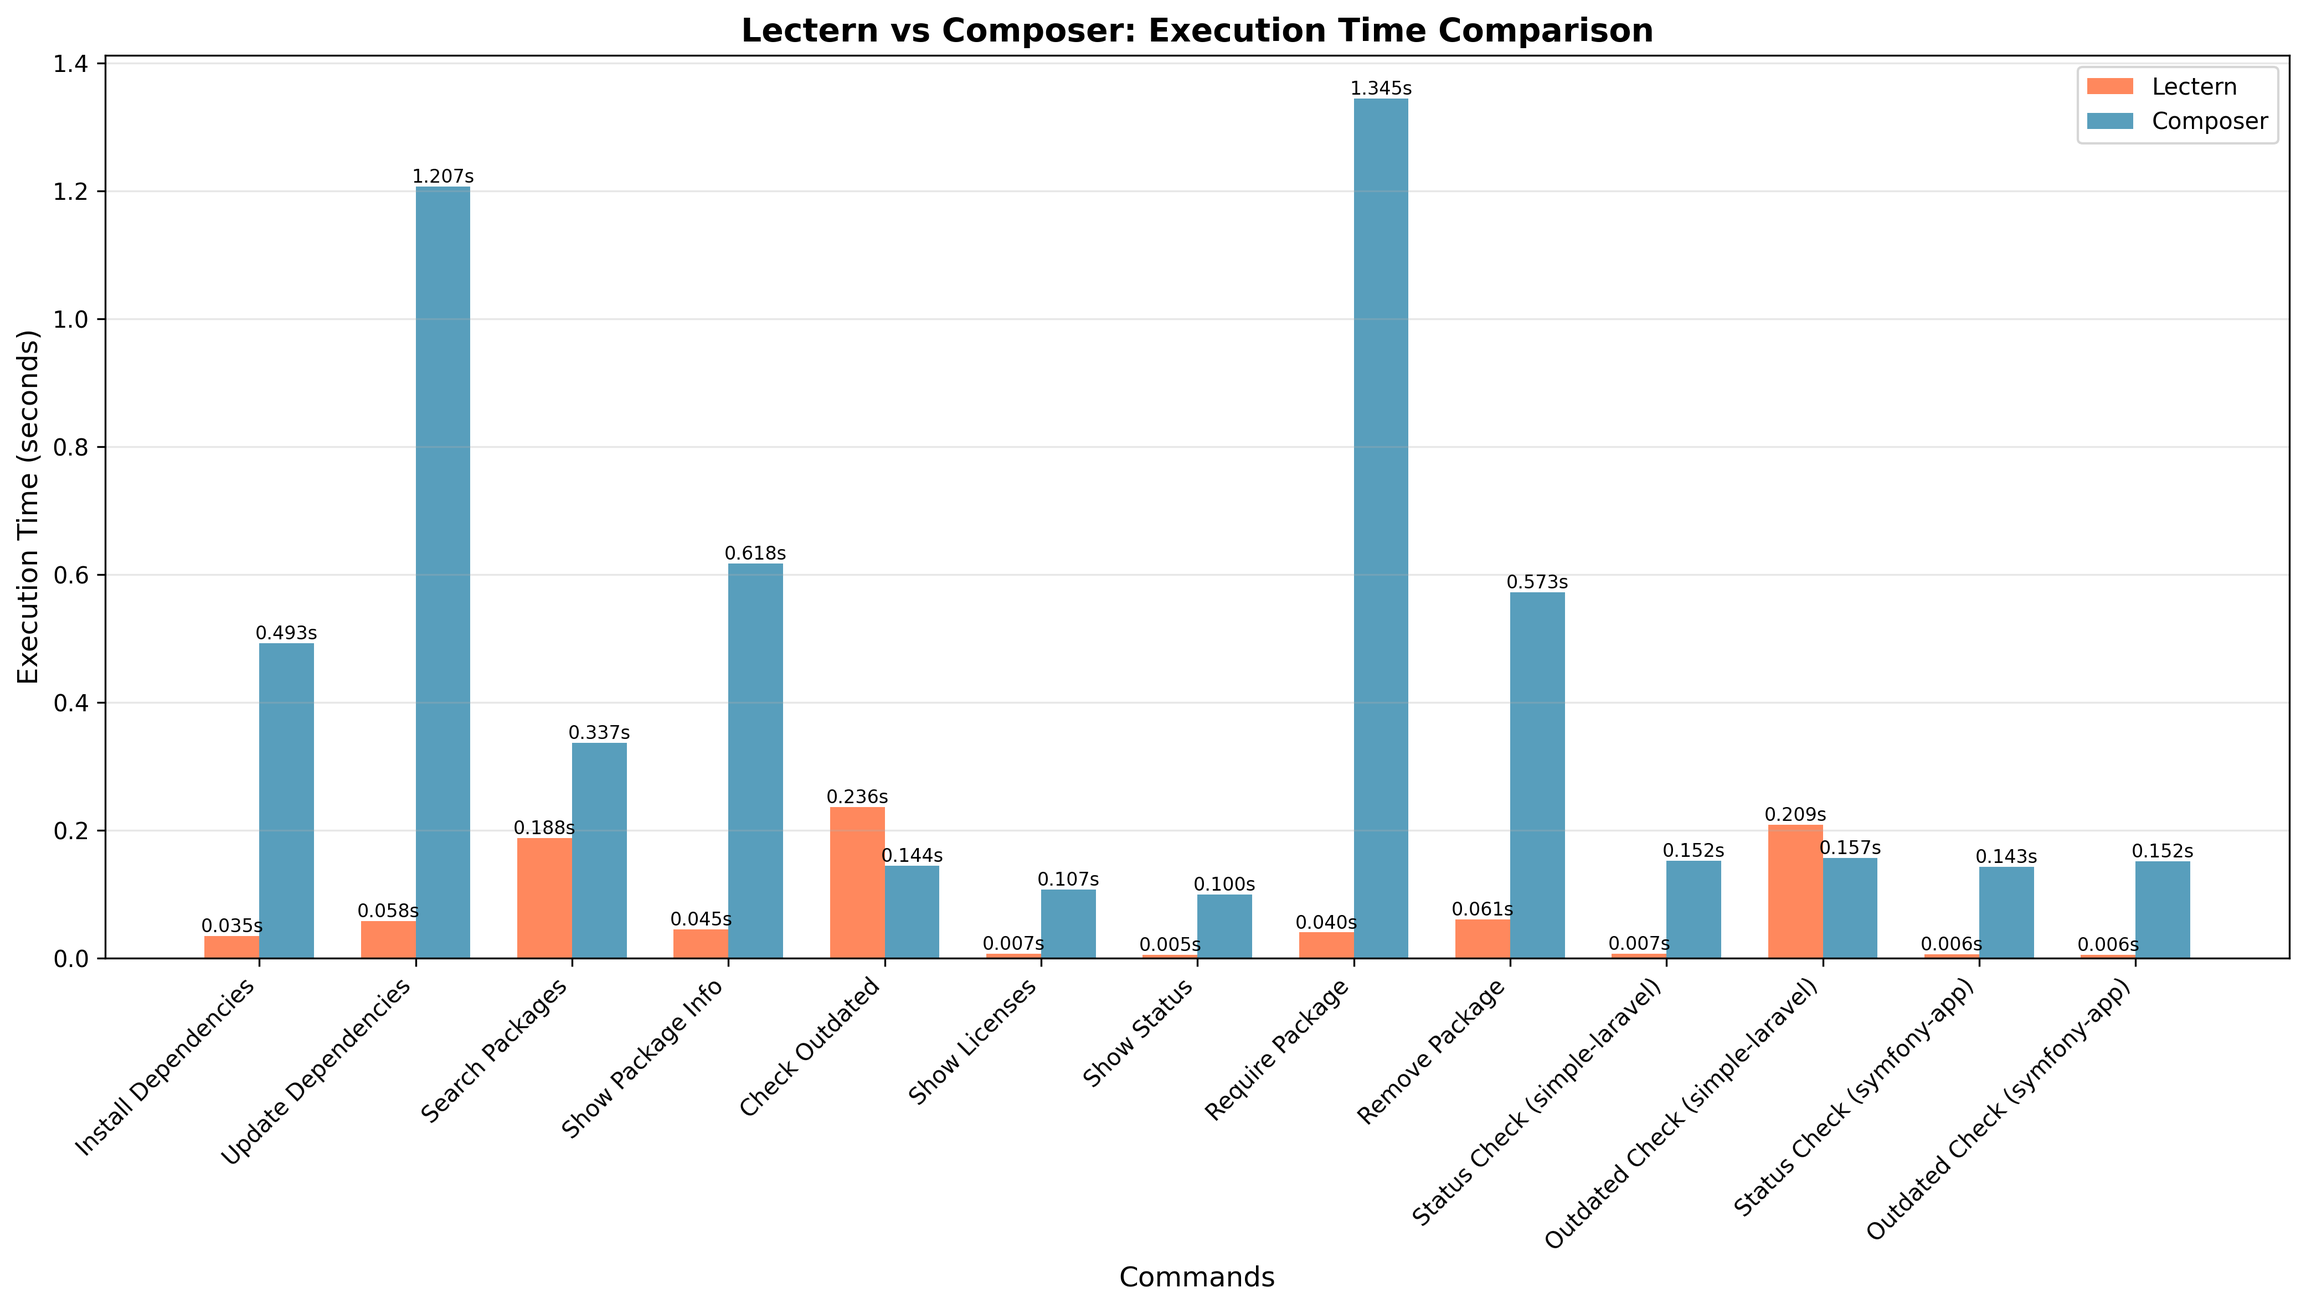
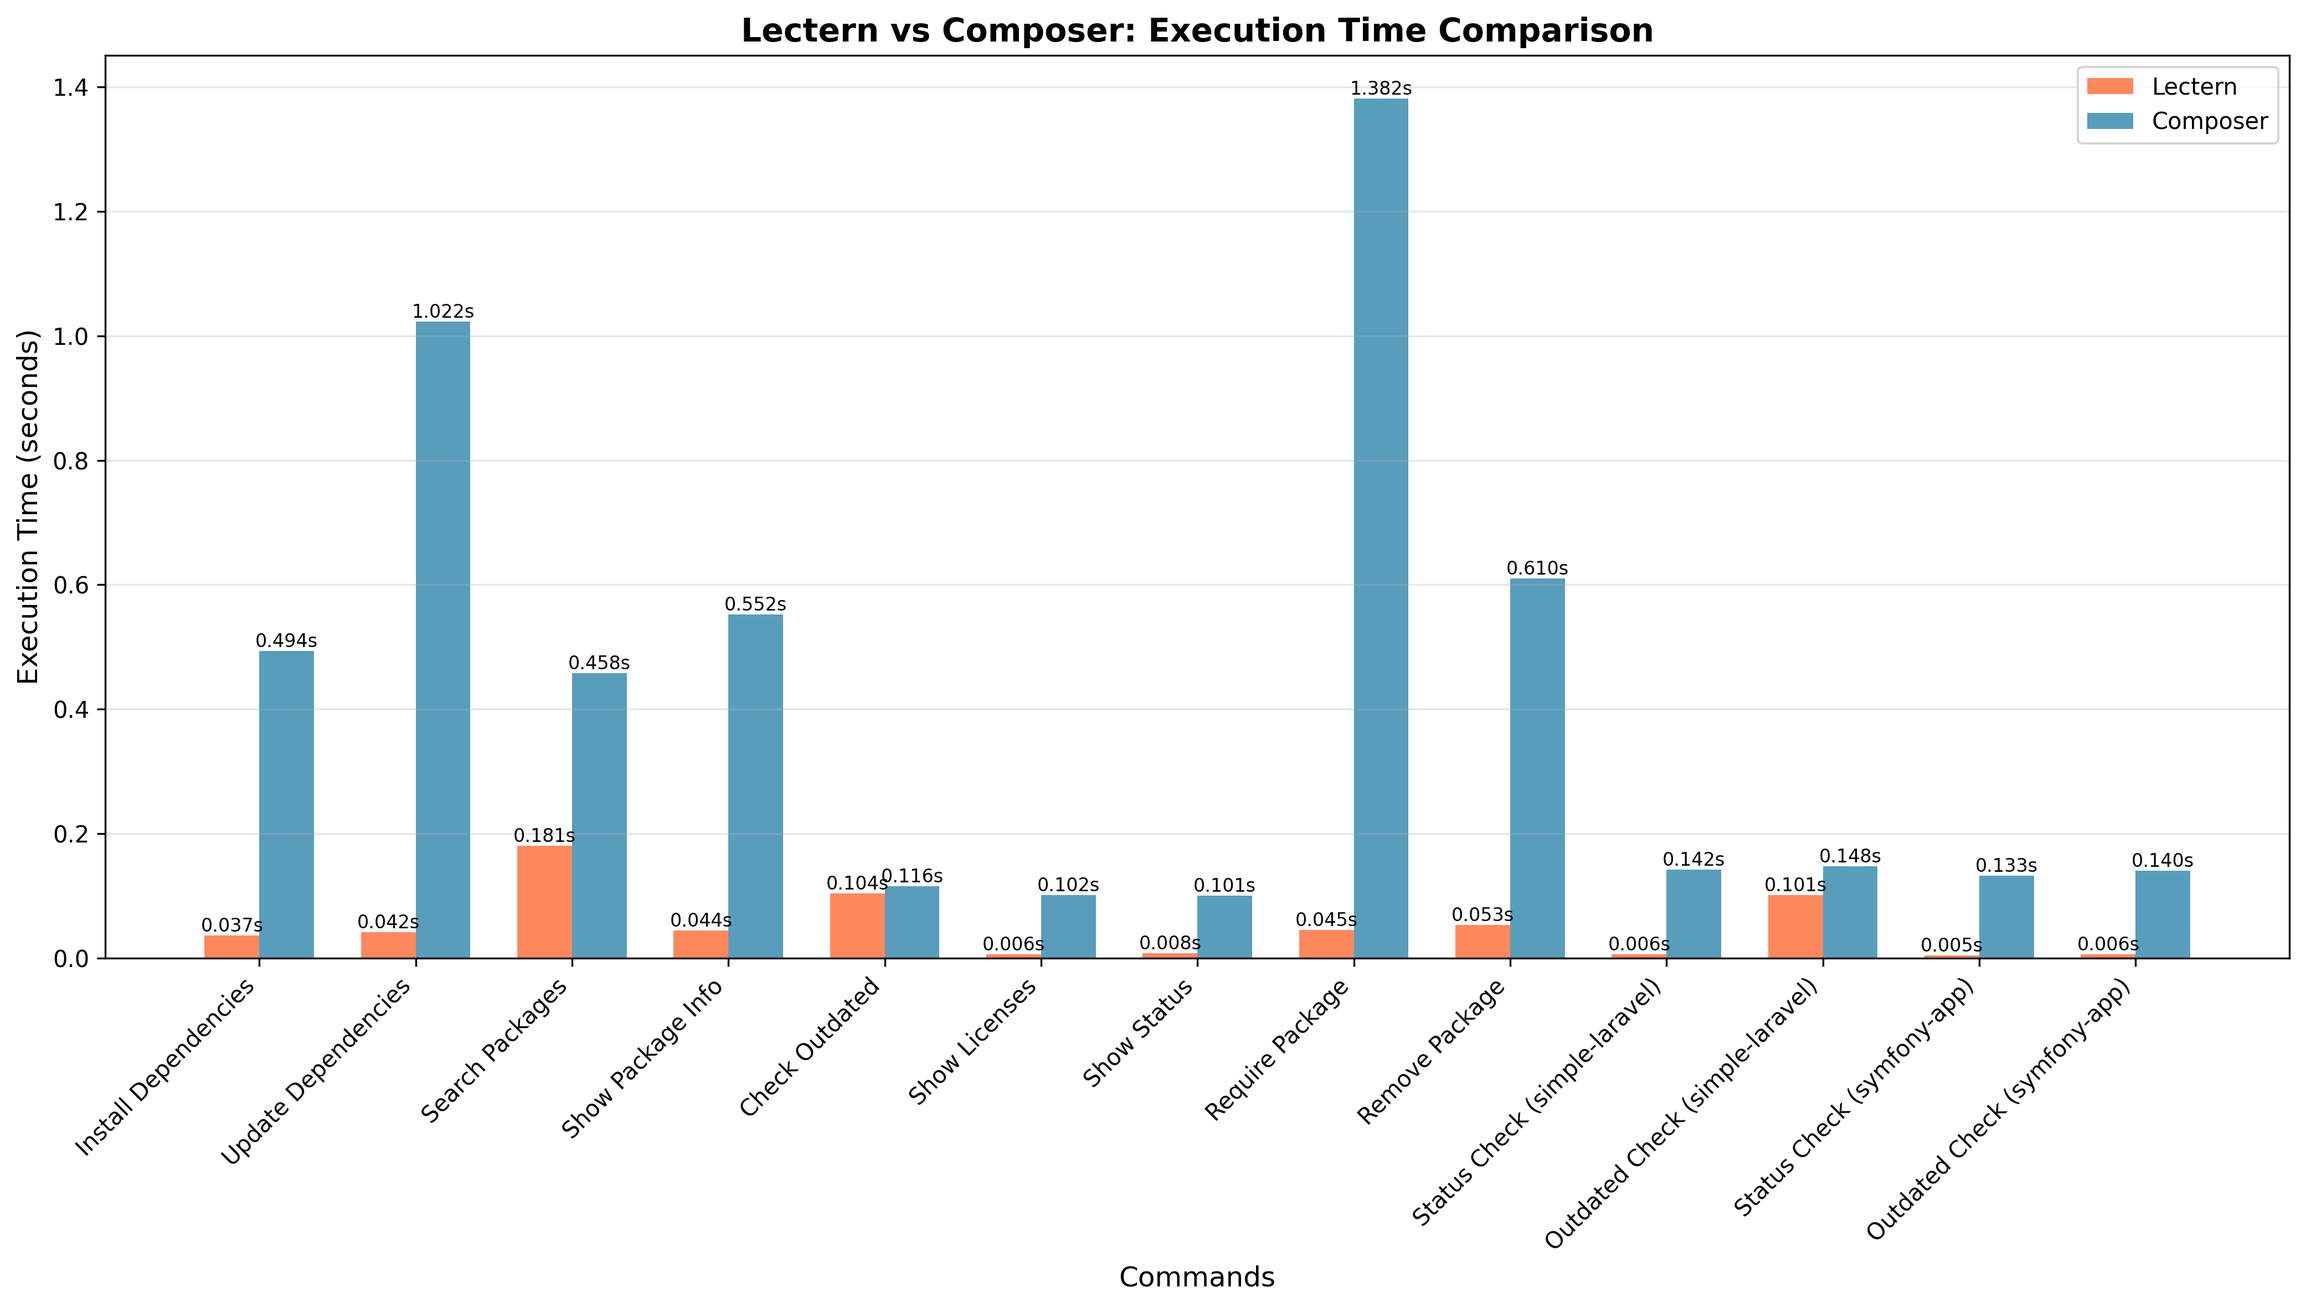
Outdated checks are now faster!

diff --git a/src/core/commands/outdated.rs b/src/core/commands/outdated.rs
@@ -1,13 +1,10 @@
 use crate::io::read_lock;
-use crate::resolver::fetch_package_info;
+use crate::resolver::fetch_packagist_versions_bulk;
 use crate::utils::is_prerelease_version;
 use crate::utils::{print_error, print_info, print_success};
 use anyhow::Result;
-use futures::stream::{self, StreamExt};
 use semver::Version;
-use std::collections::HashMap;
 use std::path::Path;
-use std::sync::{Arc, Mutex};
 
 /// Check for outdated packages with incremental updates
 /// # Errors
@@ -36,33 +33,30 @@ pub async fn check_outdated_packages(working_dir: &Path, quiet: bool) -> Result<
         return Ok(());
     }
 
-    let mut package_names: Vec<String> = lock.packages.iter().map(|p| p.name.clone()).collect();
-    package_names.extend(lock.packages_dev.iter().map(|p| p.name.clone()));
+    // Collect only non-platform packages to check
+    let mut package_names: Vec<String> = Vec::new();
+    for pkg in lock.packages.iter().chain(lock.packages_dev.iter()) {
+        // Skip platform packages (php, ext-*, lib-*, etc.) - they can't be outdated
+        if pkg.name.starts_with("php")
+            || pkg.name.starts_with("ext-")
+            || pkg.name.starts_with("lib-")
+            || pkg.name == "hhvm"
+        {
+            continue;
+        }
+        package_names.push(pkg.name.clone());
+    }
 
-    // Use faster in-memory cache instead of file-based cache
-    // Batch API requests for package info with higher concurrency
-    let package_info_map = Arc::new(Mutex::new(HashMap::new()));
-    let concurrency_limit = 50;
+    if package_names.is_empty() {
+        if !quiet {
+            print_success("✅ All packages are up to date!");
+        }
+        return Ok(());
+    }
 
-    stream::iter(package_names.clone())
-        .map(|package_name| {
-            let package_info_map = Arc::clone(&package_info_map);
-            async move {
-                // fetch_package_info already uses cache internally
-                if let Ok(result) = fetch_package_info(&package_name).await {
-                    let mut map = package_info_map.lock().unwrap();
-                    map.insert(package_name, result);
-                }
-            }
-        })
-        .buffer_unordered(concurrency_limit)
-        .for_each(|_| async {})
-        .await;
-
-    let package_info_map = Arc::try_unwrap(package_info_map)
-        .unwrap()
-        .into_inner()
-        .unwrap();
+    // Use optimized bulk P2 API endpoint for much better performance
+    // This fetches only version metadata, not full package info
+    let versions_map = fetch_packagist_versions_bulk(&package_names).await?;
 
     let mut outdated_count = 0;
     let mut table_rows = Vec::new();
@@ -76,47 +70,68 @@ pub async fn check_outdated_packages(working_dir: &Path, quiet: bool) -> Result<
             .or_else(|| lock.packages_dev.iter().find(|p| p.name == package_name));
 
         if let Some(locked_pkg) = locked_pkg {
-            if let Some(package_info) = package_info_map.get(&package_name) {
-                if let Some(versions) = &package_info.package.versions {
-                    // Find the latest stable version
-                    let mut latest_version = None;
-                    let mut latest_parsed: Option<Version> = None;
+            if let Some(versions) = versions_map.get(&package_name) {
+                // Find the latest stable version with early termination
+                let mut latest_version = None;
+                let mut latest_parsed: Option<Version> = None;
 
-                    // Parse the current version
-                    let current_version_str = locked_pkg.version.trim_start_matches('v');
-                    let current_parsed = Version::parse(current_version_str).ok();
+                // Parse the current version
+                let current_version_str = locked_pkg.version.trim_start_matches('v');
+                let current_parsed = Version::parse(current_version_str).ok();
 
-                    for version_str in versions.keys() {
-                        // Skip dev versions and pre-releases for "latest" comparison
-                        if is_prerelease_version(version_str.as_str()) {
-                            continue;
-                        }
+                // Sort versions in descending order and stop at first stable version
+                let mut version_list: Vec<_> = versions.iter().collect();
+                version_list.sort_by(|a, b| {
+                    let a_clean = a.version.trim_start_matches('v');
+                    let b_clean = b.version.trim_start_matches('v');
+                    
+                    match (Version::parse(a_clean), Version::parse(b_clean)) {
+                        (Ok(va), Ok(vb)) => vb.cmp(&va), // Descending order
+                        _ => std::cmp::Ordering::Equal,
+                    }
+                });
 
-                        // Try to parse the version
-                        let clean_version = version_str.trim_start_matches('v');
-                        if let Ok(parsed_version) = Version::parse(clean_version) {
-                            if latest_parsed.is_none()
-                                || parsed_version > *latest_parsed.as_ref().unwrap()
-                            {
-                                latest_parsed = Some(parsed_version);
-                                latest_version = Some(version_str.clone());
-                            }
-                        }
+                // Find the latest stable version (early termination)
+                for version_data in version_list {
+                    let version_str = &version_data.version;
+                    
+                    // Skip dev versions and pre-releases for "latest" comparison
+                    if is_prerelease_version(version_str.as_str()) {
+                        continue;
                     }
 
-                    // Check if the latest version is newer than current
-                    if let (Some(current), Some(latest_ver), Some(latest_str)) =
-                        (current_parsed, latest_parsed, latest_version)
-                    {
-                        if latest_ver > current {
-                            outdated_count += 1;
-                            table_rows.push((
-                                package_name.clone(),
-                                locked_pkg.version.clone(),
-                                latest_str,
-                                package_info.package.description.clone().unwrap_or_default(),
-                            ));
-                        }
+                    // Try to parse the version
+                    let clean_version = version_str.trim_start_matches('v');
+                    if let Ok(parsed_version) = Version::parse(clean_version) {
+                        // Since we're sorted, this is the latest stable version
+                        latest_parsed = Some(parsed_version);
+                        latest_version = Some(version_str.clone());
+                        break; // Early termination - found latest stable
+                    }
+                }
+
+                // Check if the latest version is newer than current
+                if let (Some(current), Some(latest_ver), Some(latest_str)) =
+                    (current_parsed, latest_parsed, latest_version)
+                {
+                    if latest_ver > current {
+                        outdated_count += 1;
+                        
+                        // Get description from version data if available
+                        let description = versions
+                            .iter()
+                            .find(|v| v.version == latest_str)
+                            .and_then(|v| v.other.get("description"))
+                            .and_then(|d| d.as_str())
+                            .unwrap_or("")
+                            .to_string();
+                        
+                        table_rows.push((
+                            package_name.clone(),
+                            locked_pkg.version.clone(),
+                            latest_str,
+                            description,
+                        ));
                     }
                 }
             }

diff --git a/src/resolver/http_client.rs b/src/resolver/http_client.rs
@@ -6,12 +6,13 @@ use std::time::Duration;
 /// This provides better performance for concurrent requests
 pub static HTTP_CLIENT: LazyLock<Client> = LazyLock::new(|| {
     Client::builder()
-        .pool_max_idle_per_host(50) // Increase connection pool size
+        .pool_max_idle_per_host(100) // Increase connection pool size for better concurrency
         .pool_idle_timeout(Duration::from_secs(90))
         .timeout(Duration::from_secs(30))
-        .connect_timeout(Duration::from_secs(10))
+        .connect_timeout(Duration::from_secs(5)) // Faster connection timeout
         .tcp_keepalive(Duration::from_secs(60))
-        .http2_adaptive_window(true)
+        .tcp_nodelay(true) // Disable Nagle's algorithm for lower latency
+        .http2_adaptive_window(true) // Use HTTP/2 when available, fallback to HTTP/1.1
         .http2_keep_alive_interval(Duration::from_secs(30))
         .http2_keep_alive_timeout(Duration::from_secs(20))
         .http2_keep_alive_while_idle(true)

diff --git a/src/resolver/mod.rs b/src/resolver/mod.rs
@@ -8,6 +8,7 @@ pub mod version;
 pub use dependency::solve;
 pub use http_client::get_client;
 pub use packagist::{
-    PackageInfo, SearchResult, fetch_multiple_package_info, fetch_package_info, search_packagist,
+    PackageInfo, SearchResult, fetch_multiple_package_info, fetch_package_info,
+    fetch_packagist_versions_bulk, search_packagist,
 };
 pub use version::parse_constraint;

diff --git a/benchmarks/performance-report.md b/benchmarks/performance-report.md
@@ -1,6 +1,6 @@
 # Lectern vs Composer Comprehensive Benchmark Report
 
-Generated: 2025-10-06 11:32:33
+Generated: 2025-10-06 13:11:47
 
 ## Summary
 
@@ -11,8 +11,8 @@ Please note that performance is tested when both Composer and Lectern have warm 
 ### Overall Performance
 - **Tests Completed**: 13
 - **Successful Comparisons**: 13
-- **Average Performance Improvement**: 15.6x faster
-- **Best Performance**: 33.4x faster
+- **Average Performance Improvement**: 15.3x faster
+- **Best Performance**: 30.7x faster
 - **Architecture**: Rust with concurrent operations, multi-layered caching
 
 ## Detailed Results
@@ -52,43 +52,43 @@ Performance breakdown by command category, comparing average improvements and ex
 
 | Command | Lectern Time | Composer Time | Performance | Status |
 |---------|--------------|---------------|-------------|--------|
-| Install Dependencies | 0.035s | 0.493s | 14.1x | 🚀 14.1x faster |
-| Update Dependencies | 0.058s | 1.207s | 20.8x | 🚀 20.8x faster |
-| Search Packages | 0.188s | 0.337s | 1.8x | 🚀 1.8x faster |
-| Show Package Info | 0.045s | 0.618s | 13.8x | 🚀 13.8x faster |
-| Check Outdated | 0.236s | 0.144s | 0.6x | ⚡ 1.6x slower |
-| Show Licenses | 0.007s | 0.107s | 15.5x | 🚀 15.5x faster |
-| Show Status | 0.005s | 0.100s | 20.8x | 🚀 20.8x faster |
-| Require Package | 0.040s | 1.345s | 33.4x | 🚀 33.4x faster |
-| Remove Package | 0.061s | 0.573s | 9.4x | 🚀 9.4x faster |
-| Status Check (simple-laravel) | 0.007s | 0.152s | 21.1x | 🚀 21.1x faster |
-| Outdated Check (simple-laravel) | 0.209s | 0.157s | 0.8x | ⚡ 1.3x slower |
-| Status Check (symfony-app) | 0.006s | 0.143s | 24.0x | 🚀 24.0x faster |
-| Outdated Check (symfony-app) | 0.006s | 0.152s | 26.9x | 🚀 26.9x faster |
+| Install Dependencies | 0.037s | 0.494s | 13.5x | 🚀 13.5x faster |
+| Update Dependencies | 0.042s | 1.022s | 24.2x | 🚀 24.2x faster |
+| Search Packages | 0.181s | 0.458s | 2.5x | 🚀 2.5x faster |
+| Show Package Info | 0.044s | 0.552s | 12.5x | 🚀 12.5x faster |
+| Check Outdated | 0.104s | 0.116s | 1.1x | 🚀 1.1x faster |
+| Show Licenses | 0.006s | 0.102s | 16.5x | 🚀 16.5x faster |
+| Show Status | 0.008s | 0.101s | 12.7x | 🚀 12.7x faster |
+| Require Package | 0.045s | 1.382s | 30.7x | 🚀 30.7x faster |
+| Remove Package | 0.053s | 0.610s | 11.5x | 🚀 11.5x faster |
+| Status Check (simple-laravel) | 0.006s | 0.142s | 22.0x | 🚀 22.0x faster |
+| Outdated Check (simple-laravel) | 0.101s | 0.148s | 1.5x | 🚀 1.5x faster |
+| Status Check (symfony-app) | 0.005s | 0.133s | 27.3x | 🚀 27.3x faster |
+| Outdated Check (symfony-app) | 0.006s | 0.140s | 23.0x | 🚀 23.0x faster |
 
 ### Performance Categories
 
 #### ⚡ Ultra-Fast Commands (10x+ improvement)
-9 commands with exceptional performance gains:
-- **Install Dependencies**: 14.1x faster (0.493s → 0.035s)
-- **Update Dependencies**: 20.8x faster (1.207s → 0.058s)
-- **Show Package Info**: 13.8x faster (0.618s → 0.045s)
-- **Show Licenses**: 15.5x faster (0.107s → 0.007s)
-- **Show Status**: 20.8x faster (0.100s → 0.005s)
-- **Require Package**: 33.4x faster (1.345s → 0.040s)
-- **Status Check (simple-laravel)**: 21.1x faster (0.152s → 0.007s)
-- **Status Check (symfony-app)**: 24.0x faster (0.143s → 0.006s)
-- **Outdated Check (symfony-app)**: 26.9x faster (0.152s → 0.006s)
+10 commands with exceptional performance gains:
+- **Install Dependencies**: 13.5x faster (0.494s → 0.037s)
+- **Update Dependencies**: 24.2x faster (1.022s → 0.042s)
+- **Show Package Info**: 12.5x faster (0.552s → 0.044s)
+- **Show Licenses**: 16.5x faster (0.102s → 0.006s)
+- **Show Status**: 12.7x faster (0.101s → 0.008s)
+- **Require Package**: 30.7x faster (1.382s → 0.045s)
+- **Remove Package**: 11.5x faster (0.610s → 0.053s)
+- **Status Check (simple-laravel)**: 22.0x faster (0.142s → 0.006s)
+- **Status Check (symfony-app)**: 27.3x faster (0.133s → 0.005s)
+- **Outdated Check (symfony-app)**: 23.0x faster (0.140s → 0.006s)
 
 #### 🚀 Fast Commands (2-10x improvement)
 1 commands with significant performance gains:
-- **Remove Package**: 9.4x faster (0.573s → 0.061s)
+- **Search Packages**: 2.5x faster (0.458s → 0.181s)
 
 #### 🟰 Similar Performance (0.5-2x)
-3 commands with comparable performance:
-- **Search Packages**: 1.8x (0.337s vs 0.188s)
-- **Check Outdated**: 0.6x (0.144s vs 0.236s)
-- **Outdated Check (simple-laravel)**: 0.8x (0.157s vs 0.209s)
+2 commands with comparable performance:
+- **Check Outdated**: 1.1x (0.116s vs 0.104s)
+- **Outdated Check (simple-laravel)**: 1.5x (0.148s vs 0.101s)
 
 ## Technical Architecture
 
@@ -117,31 +117,31 @@ Performance breakdown by command category, comparing average improvements and ex
 
 ### Core Commands
 #### Install Dependencies
-- **Performance**: 14.1x faster
-- **Lectern**: 0.035s
-- **Composer**: 0.493s
-- **Status**: 🚀 14.1x faster
+- **Performance**: 13.5x faster
+- **Lectern**: 0.037s
+- **Composer**: 0.494s
+- **Status**: 🚀 13.5x faster
 - **Notes**: Real installation with backup/restore
 
 #### Update Dependencies
-- **Performance**: 20.8x faster
-- **Lectern**: 0.058s
-- **Composer**: 1.207s
-- **Status**: 🚀 20.8x faster
+- **Performance**: 24.2x faster
+- **Lectern**: 0.042s
+- **Composer**: 1.022s
+- **Status**: 🚀 24.2x faster
 - **Notes**: Real update with backup/restore
 
 #### Search Packages
-- **Performance**: 1.8x faster
-- **Lectern**: 0.188s
-- **Composer**: 0.337s
-- **Status**: 🚀 1.8x faster
+- **Performance**: 2.5x faster
+- **Lectern**: 0.181s
+- **Composer**: 0.458s
+- **Status**: 🚀 2.5x faster
 - **Notes**: Standard operation
 
 #### Show Package Info
-- **Performance**: 13.8x faster
-- **Lectern**: 0.045s
-- **Composer**: 0.618s
-- **Status**: 🚀 13.8x faster
+- **Performance**: 12.5x faster
+- **Lectern**: 0.044s
+- **Composer**: 0.552s
+- **Status**: 🚀 12.5x faster
 - **Notes**: Standard operation
 
 
@@ -159,7 +159,7 @@ Performance breakdown by command category, comparing average improvements and ex
 Lectern demonstrates significant performance improvements over Composer while maintaining full compatibility. The combination of Rust's performance, concurrent operations, and intelligent caching provides substantial speed gains for PHP package management.
 
 ### Key Achievements
-- **Average 15.6x performance improvement**
+- **Average 15.3x performance improvement**
 - **Full command compatibility** with Composer
 - **Intelligent caching** with persistence
 - **Concurrent operations** for parallel processing
